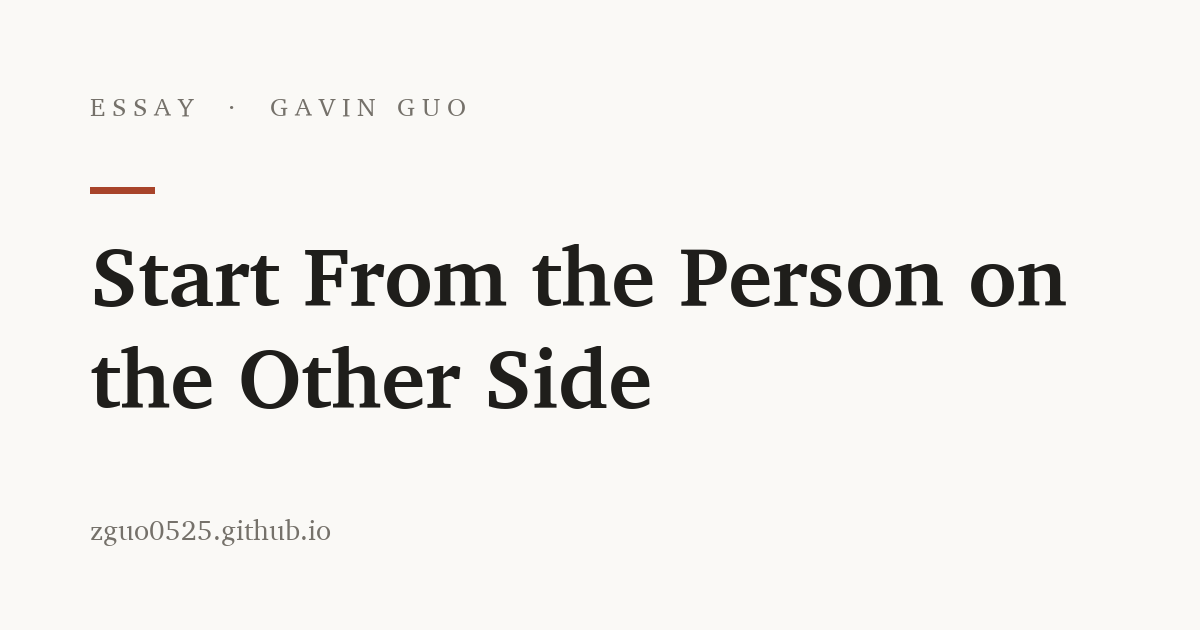
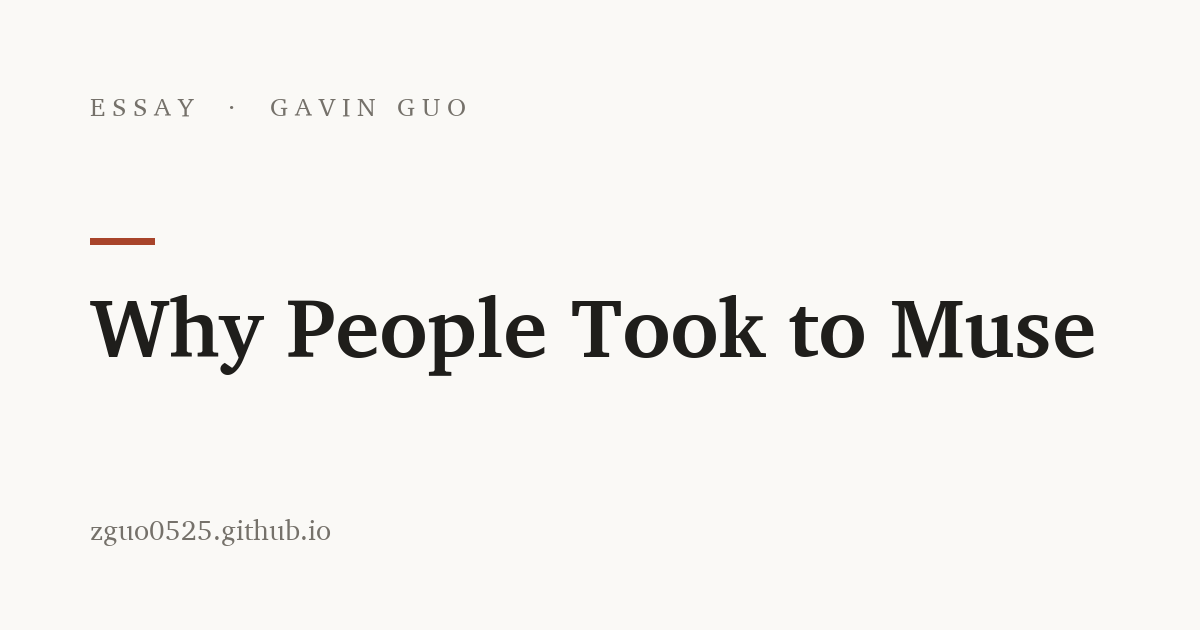
Essay: Why People Took to Muse (user-first, in site voice)
Claude-Session: https://claude.ai/code/session_01HnC98uYSSXDKz9D1f4jfEu

Changed region(s): [[0.0617, 0.3619, 0.925, 0.6635], [0.0617, 0.2714, 0.1233, 0.3317]]

diff --git a/_articles/real-time-video-is-a-control-problem.md b/_articles/real-time-video-is-a-control-problem.md
@@ -1,27 +1,80 @@
 ---
 layout: default
-title: "Start From the Person on the Other Side"
+title: "Why People Took to Muse"
 image: /assets/cards/real-time-video-is-a-control-problem.png
-description: "A live avatar isn't worth building because a model can now do it. It's worth building if talking to it feels better. That changes what you train for."
-date: 2026-09-27
+description: "Nobody downloads a model. Distribution explains the installs, not the attachment. Muse starts from the person, not the model."
+date: 2026-10-08
 tags: [AI]
 ---
-Most model work starts from the model: a new architecture, a better benchmark, a bigger number. Then someone looks for a product to put it in.
+Nobody downloads a model.
 
-Working on [Muse Realtime Avatar](https://research.meta.ai/blog/bringing-your-muse-to-life) taught me to go the other way. Start from the person on the other side of the screen, and ask what would make the conversation better for them.
+They download something they hope will make their day a little better. Then they decide, quickly and without much mercy, whether it did.
 
-**Why a face at all.** People don't talk to voices the way they talk to faces. A face tells you you're being heard: a nod while you're still talking, a pause that looks like thinking, an expression that matches the words. A voice assistant can be smart and still feel like a machine on the other end of a phone line. The reason to build a live avatar isn't that video models can finally do it. It's that presence changes how a conversation feels.
+Within three weeks of launch, Muse was the top free app in the US App Store and had passed [five million downloads](https://9to5mac.com/2026/09/30/report-metas-muse-crosses-5-million-downloads-amid-massive-advertising-push/), faster than ChatGPT did.
 
-**Users don't notice what benchmarks measure.** Nobody in a conversation notices a frame score. They notice when the reply is slow, when the face freezes, when it stops looking like the same person, when it talks over them. These are small moments, and one bad one can break the whole conversation. A model can get better on every benchmark and still feel worse to talk to.
+Distribution explains a lot of that. Meta can put an app in front of billions of people. But distribution buys installs. It doesn't buy attachment. As one early reviewer [put it](https://metedata.substack.com/p/what-meta-got-right-with-muse), "People love their muses."
 
-**So define quality from the user's side.** For Muse, that meant judging it the way a user would: people held real two-to-three-minute conversations and told us which avatar they'd rather talk to. Not single clips, not best takes. The question was always: would you rather keep talking to this one?
-
-**Then let that drive the training.** Once the target is the experience, the technical choices follow from it. Speed isn't a record to set. It matters because people feel every pause, and a slow reply feels like nobody's there. Training data should look like real conversations, not a showcase reel. And when the model gets stronger but the conversation doesn't get better, that isn't progress.
-
-**The best signal is the user.** Every live conversation is full of feedback: people lean in, interrupt, repeat themselves, or go quiet. Today most of it is thrown away. The models that feel best to use will be the ones trained on what people actually do with them.
-
-Better models matter. But a model is only as good as the experience someone has with it. Build for that person first.
+You don't love a feature. You love something that feels like it was made for you.
 
 ---
 
-*First posted [on X](https://x.com/zhen4good/status/2104252038184091834). Views my own. · zguo0525@berkeley.edu · [@Zhen4good](https://x.com/Zhen4good)*
+## Start from the person, not the model
+
+Most AI products start from a capability. Here's what the model can do; now go find someone who needs it.
+
+Muse starts from the other end: a person with things to do. You don't prompt it to show off. You tell it what you need, and it gets to work.
+
+The question isn't *what can this model do?* It's *what does this person want?*
+
+---
+
+## Personality is the interface
+
+Most AI products look like tools. Clean. Neutral. A little cold.
+
+Muse took the other side. A face. A name. A personality you shape yourself.
+
+That was a real bet, and not everyone likes it. Some people find it too cute. Fine. A product nobody dislikes is usually a product nobody loves.
+
+Personality isn't decoration. It's how the product feels to use, and how it feels is most of what people remember.
+
+---
+
+## A face that listens
+
+Next comes [Muse Realtime Avatar](https://research.meta.ai/blog/bringing-your-muse-to-life), coming soon. You'll be able to video chat with your Muse.
+
+Why give an AI a face at all?
+
+Because people talk differently when someone is visibly listening. In one classic study, storytellers told their stories [noticeably worse](https://www.responsebasedpractice.com/wp-content/uploads/2020/04/Listeners-as-Co-Narrators.pdf) when the listener stopped reacting. A face that reacts doesn't just look nice. It changes how you talk. It makes you feel *heard*.
+
+So we built it from the user's side, not the model's:
+
+- **Your character stays itself.** You pick who you talk to. A photo moves with restraint, a cartoon moves big, and it's the same character from one turn to the next.
+- **Latency is measured from your side.** From the moment you stop talking to the moment it answers. Not how long the model takes.
+- **We judged it the way you'd use it.** Real two-to-three-minute conversations, against other products' own live-call experiences. One question: which one would you rather keep talking to?
+- **Making it fast had to be invisible.** We cut its compute sharply. The bar was that people couldn't tell.
+
+None of these are model metrics. All of them are things a person feels.
+
+---
+
+## Honest about the gap
+
+User-first also means being honest about how far there is to go.
+
+People in conversation answer each other in about [200 milliseconds](https://www.frontiersin.org/articles/10.3389/fpsyg.2015.00731/full). Our avatar answers in under a second. That's fast for an avatar. It isn't yet how people talk.
+
+And an agent that knows your life has to earn that. For a personal agent, trust isn't a policy page. It's part of the experience.
+
+---
+
+Downloads are a first impression. The real test is whether Muse becomes a habit: whether people still talk to it in six months because it makes their days better.
+
+The way to pass that test is the same thing that got Muse here. Keep asking what the person on the other side feels. Train on that, not on what makes the model look strongest.
+
+The best AI isn't the one with the highest score. It's the one that makes you feel *seen*.
+
+---
+
+*I work on Muse Realtime Avatar at Meta. Views my own; everything here is public. · zguo0525@berkeley.edu · [@Zhen4good](https://x.com/Zhen4good)*
